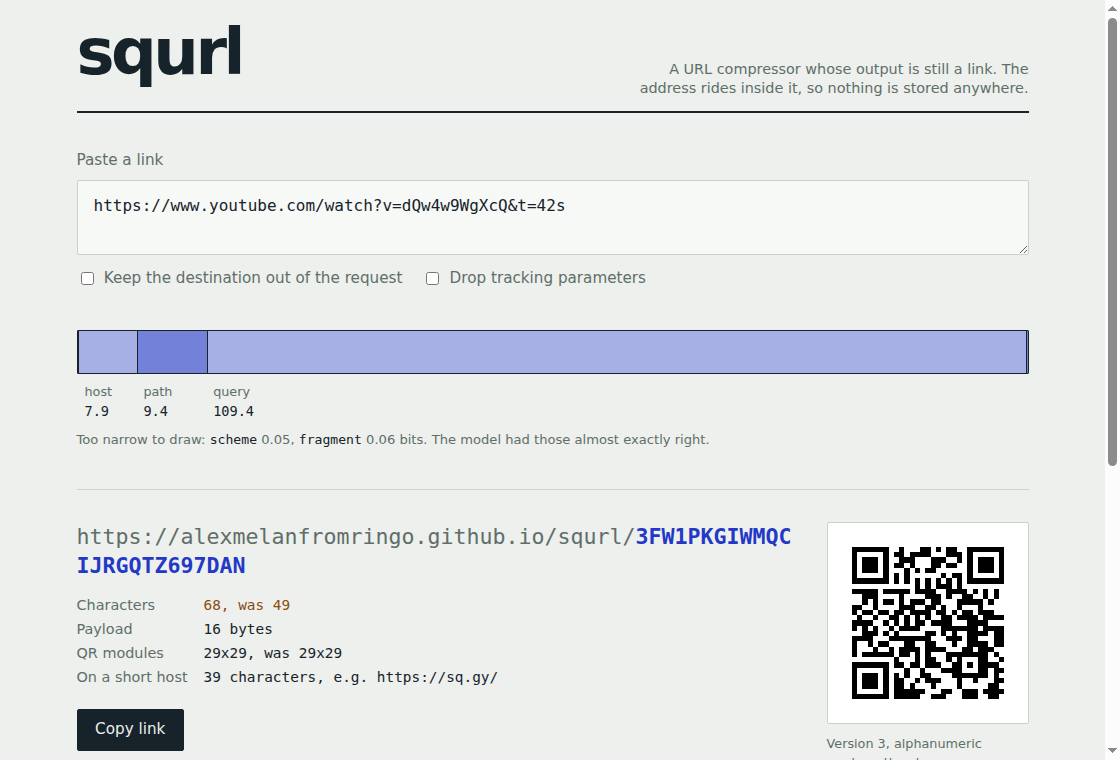
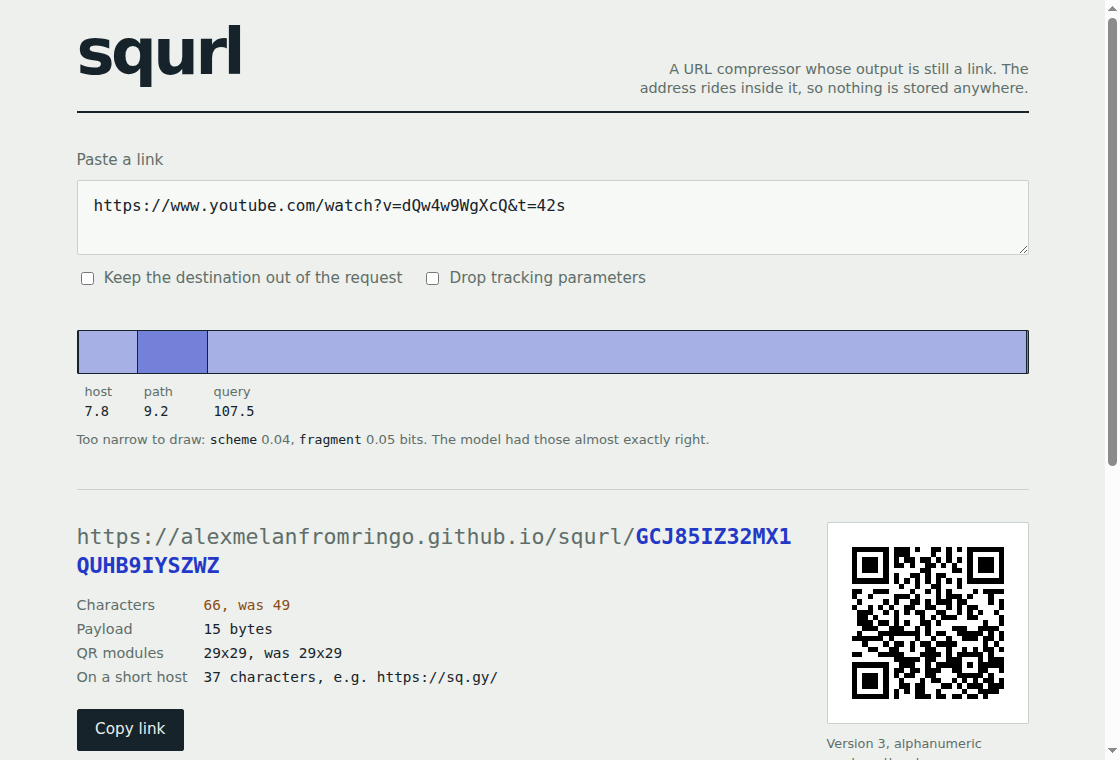
Freeze the probabilities that price the version field
The README claimed that a payload from an older format is refused rather
than misread. It was not true in the way it mattered: the version bits
were priced by the trained prior like everything else, so a version 0
payload read under version 1 probabilities decodes to a different number
entirely. The old link tested here was refused by a bounds check further
down -- luck, not design, and luck that would eventually hand somebody
the wrong URL.

The two probabilities for that field are now constants in src/model.js,
written by every training run and changed by none. They cost the current
version six hundredths of a bit, and any decoder from any generation can
now read the version of a payload from any other -- so a mismatch says
`unsupported format version 0` instead of returning a plausible-looking
address that was never compressed.

Holdout: 1549 payload bytes, 84% of the original characters, 74% of the
QR modules.

Claude-Session: https://claude.ai/code/session_01CfdxyU8zpcNMwLU1gZrHr3

diff --git a/src/model.js b/src/model.js
@@ -33,6 +33,23 @@ export const VERSION = 1;
 // links stop working, and two bits is not much room.
 const VERSION_ESCAPE = 3;
 
+/**
+ * Fixed probabilities for the version field, never trained and never changed.
+ *
+ * A range-coded stream is only readable by a decoder holding the same
+ * probabilities, so a version field priced by the trained prior is worthless
+ * for its one job: the moment the prior changes, an old payload's version bits
+ * decode to something else and the stream is misread rather than refused.
+ *
+ * These two numbers are therefore frozen. They cost the current version about a
+ * third of a bit and every other version a few, which is the right way round.
+ * A future format that changes VERSION must leave this table alone.
+ */
+export const VERSION_MODEL = [
+  [1, 82],      // first bit: versions 0 and 1 live in the low half
+  [2, 4014],    // second bit: 1 is the current version
+];
+
 function putVersion(enc, version) {
   putTree(enc, SLOT.version, 2, Math.min(version, VERSION_ESCAPE));
   if (version >= VERSION_ESCAPE) putUint(enc, SLOT.versionExtra, version);

diff --git a/src/prior.js b/src/prior.js
@@ -6,7 +6,7 @@
 // pairs, base64. A context the corpus never exercised is left at 1/2.
 
 export const PRIOR =
-  'AAgYAOgPAAgACAAIAAgACAAIAAgACAAIAAgACAAIAAgACAAIAAgACAAIAAgACAAIAAgACAAIAAgACAAIAAgACAAIAAgACAAI' +
+  'AAhSAK4PAAgACAAIAAgACAAIAAgACAAIAAgACAAIAAgACAAIAAgACAAIAAgACAAIAAgACAAIAAgACAAIAAgACAAIAAgACAAI' +
   'AAgACAAIAAgACAAIAAgACAAIAAgACAAIAAgACAAIAAgACAAIAAgACAAIAAgACAAIAAgACAAIAAgACAAIAAgACAAIAAgACAAI' +
   'AAgACAAIAAgACAAIAAgACAAIAAgACAAIAAgACAAIAAgACAAIAAgACAAIAAgACAAIAAgACAAIAAgACAAIAAgACAAIAAgACAAI' +
[1 lines of base64/hex data omitted]

diff --git a/README.md b/README.md
@@ -44,9 +44,9 @@ git clone https://github.com/AlexMelanFromRingo/squrl
 cd squrl && npm link          # nothing to install: dependencies is {}
 
 squrl 'https://www.youtube.com/watch?v=dQw4w9WgXcQ&t=42s'
-# https://sq.gy/GCJ85IZ32MX1QUHB9IYSZWZ
+# https://sq.gy/3CS58RR0A5YLN9DGTVBMDDQ0M
 
-squrl expand https://sq.gy/GCJ85IZ32MX1QUHB9IYSZWZ
+squrl expand https://sq.gy/3CS58RR0A5YLN9DGTVBMDDQ0M
 # https://www.youtube.com/watch?v=dQw4w9WgXcQ&t=42s
 
 squrl qr 'https://example.com/some/page'     # draws it in the terminal
@@ -84,10 +84,10 @@ https://www.youtube.com/watch?v=dQw4w9WgXcQ&t=42s
   query      107.5 bits  ###################################
   fragment    0.05 bits
   --------- -----------
-  total      124.6 bits  -> 15 bytes
+  total      124.6 bits  -> 16 bytes
 
-  link  https://sq.gy/GCJ85IZ32MX1QUHB9IYSZWZ
-        37 characters, 24% shorter
+  link  https://sq.gy/3CS58RR0A5YLN9DGTVBMDDQ0M
+        39 characters, 20% shorter
 ```
 
 Eight bits for `https://www.youtube.com`, nine for `/watch`, and a hundred and
@@ -133,9 +133,9 @@ wrangler deploy server/worker.js   # or any edge runtime — there is no I/O to 
 ```
 
 ```
-GET /GCJ85IZ32MX1QUHB9IYSZWZ            301, Location: the original URL
-GET /GCJ85IZ32MX1QUHB9IYSZWZ?preview    a page showing where it goes
-GET /health                             ok
+GET /3CS58RR0A5YLN9DGTVBMDDQ0M            301, Location: the original URL
+GET /3CS58RR0A5YLN9DGTVBMDDQ0M?preview    a page showing where it goes
+GET /health                               ok
 ```
 
 The redirect is `301` with `max-age=31536000, immutable`, because the mapping is
@@ -149,9 +149,9 @@ URL and always will.
 
 |  | original | compressed |  |
 |---|---:|---:|---:|
-| characters | 4093 | 3456 | **84%** |
-| payload bytes | 4093 | 1552 | **38%** |
-| QR modules | 72850 | 53938 | **74%** |
+| characters | 4093 | 3454 | **84%** |
+| payload bytes | 4093 | 1549 | **38%** |
+| QR modules | 72850 | 54122 | **74%** |
 
 62 of 74 links came out shorter as text. 65 needed a smaller QR version, 9 came
 out the same size, none got bigger.
@@ -164,7 +164,7 @@ characters per byte. On short URLs that eats the entire win:
 
 | original URL | count | characters | QR modules |
 |---|---:|---:|---:|
-| under 40 chars | 16 | 92% | 79% |
+| under 40 chars | 16 | 92% | 81% |
 | 40–60 chars | 28 | 88% | 75% |
 | 60–90 chars | 28 | 83% | 73% |
 | over 90 chars | 2 | 56% | 56% |
@@ -272,12 +272,12 @@ The single biggest win available is not compression:
 
 ```console
 $ squrl 'https://www.ozon.ru/product/…-9876543210/?utm_source=yandex&utm_medium=cpc&utm_campaign=autumn'
-https://sq.gy/IDJ86JYTWN6YAD6JQCX408LFXH46XRQNZOVHS5MFUEKER3R9LR4EJ7ABJ88UAZ8
+https://sq.gy/KDX5AEVFVX4EZZ29B751JVX6D7T36ZTZXI0XEP0F6C2GN3RE2PD0YZEFMJSLRHT
 118 chars -> 77 (41 bytes of payload, -41 chars)
 
 $ squrl --strip-tracking 'https://www.ozon.ru/product/…-9876543210/?utm_source=yandex&utm_medium=cpc&utm_campaign=autumn'
 dropped 3 tracking parameter(s): utm_source=yandex utm_medium=cpc utm_campaign=autumn
-https://sq.gy/C3ZV2BVVAGOWP6TE8SGKXACSQB2ZG7ZCNQT8Q7WZQUD
+https://sq.gy/DFPCBDEW4RIKV4TJH9YQS0F6XR2RETAPK0IMZCXHBRT
 65 chars -> 57 (28 bytes of payload, -8 chars)
 ```
 
@@ -296,9 +296,14 @@ retrain on your own corpus:
 - so bump `VERSION` in `src/model.js`, and keep the old tables if you need both.
 
 The format leaves room for that: the version is two bits, where `3` means "a
-number follows", so there is no cliff at version four. The current version is 1;
-version 0 links, made before identifiers got their own alphabets, are refused
-rather than misread.
+number follows", so there is no cliff at version four. The current version is 1.
+
+The version field is the one place with **frozen** probabilities, never trained
+and never changed. That is not a detail: a range-coded stream is unreadable
+without the numbers that wrote it, so a version field priced by the trained
+prior would decode to garbage the moment the prior moved — identifying nothing.
+Held fixed, it costs the current version six hundredths of a bit and lets any
+decoder say `unsupported format version 0` instead of returning the wrong URL.
 
 Two more things worth saying plainly. A payload is **not encrypted** — anyone
 holding this library can read it, and that is the point. And whoever hosts the
@@ -309,7 +314,7 @@ dependency-free files you can run yourself.
 ## Tests
 
 ```bash
-npm test        # 70 tests, node:test, no framework
+npm test        # 71 tests, node:test, no framework
 ```
 
 The ones that matter are the round trips: every URL in the corpus, every URL in
